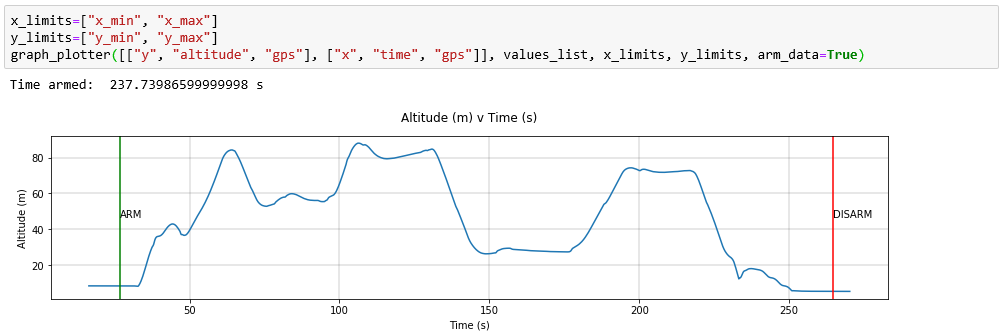
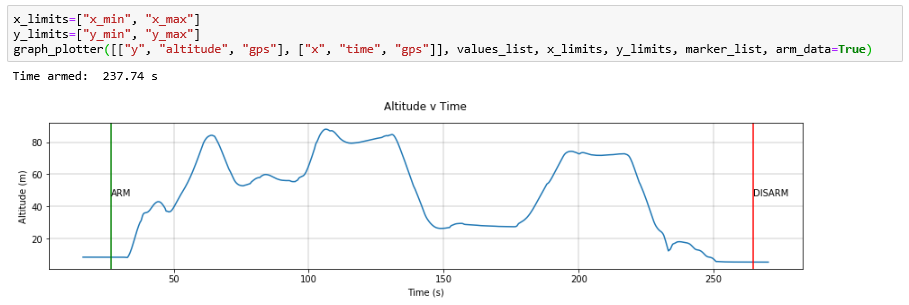
Documentation updated 2

diff --git a/docs/examples.rst b/docs/examples.rst
@@ -38,6 +38,12 @@ The arm and disarm times can be added to both multi-variable and standard graphs
 	:width: 900
 	:alt: Image of a graph generated with AutoFLpy showing the altitude v time plot as well as the times when it was armed and disarmed.
 
+For marking specific flight points across all graphs simultaneously, define your markers in the marker_list as a list of numbers. Below is an example marking the two highest points in the flight on the altitude figure and displaying these in the airspeed and groundspeed figure.
+
+.. image:: images/Ex_markers.png
+	:width: 900
+	:alt: Image of a graph generated with AutoFLpy showing the use of custom markers on various plots.
+
 
 Plotting Maps
 -------------
